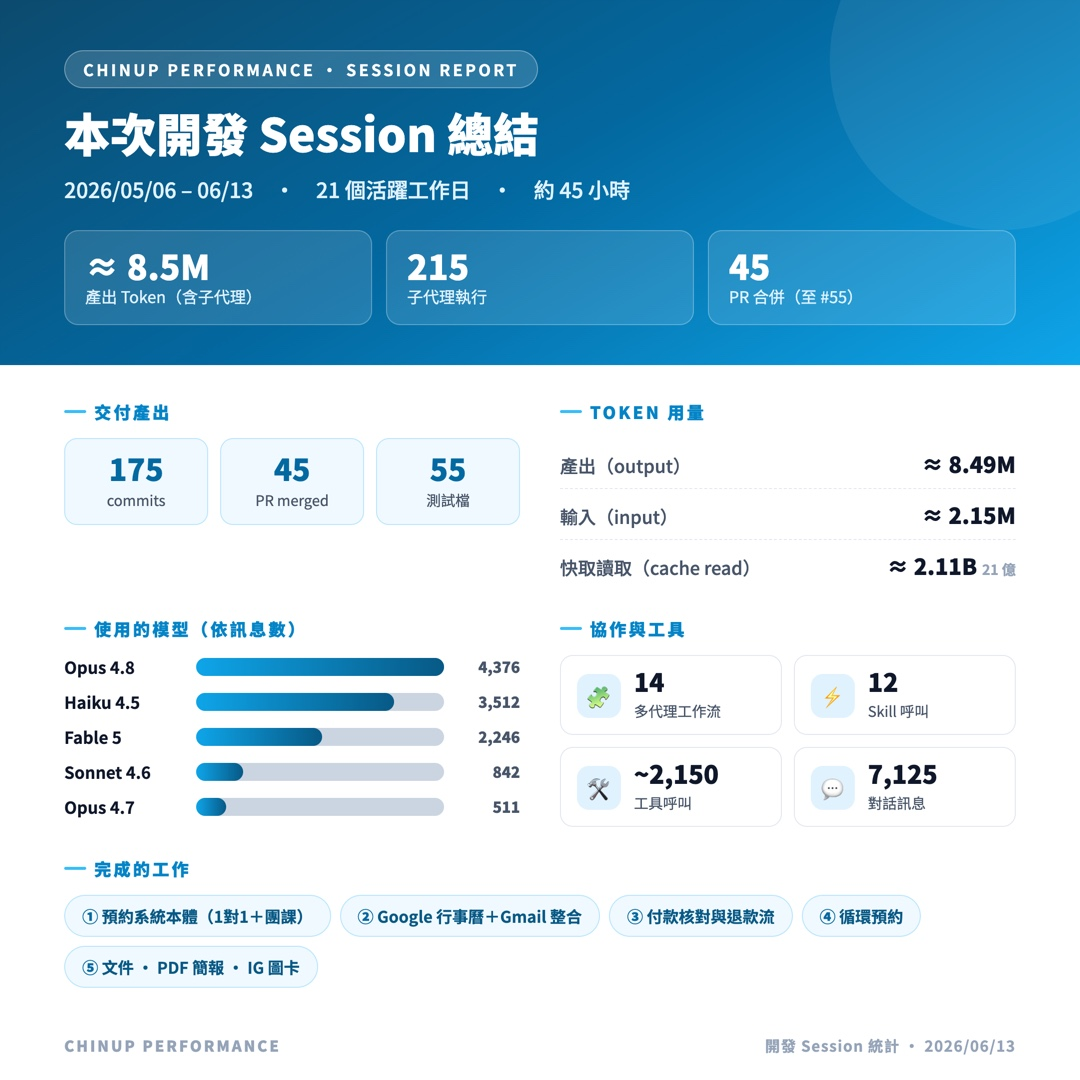
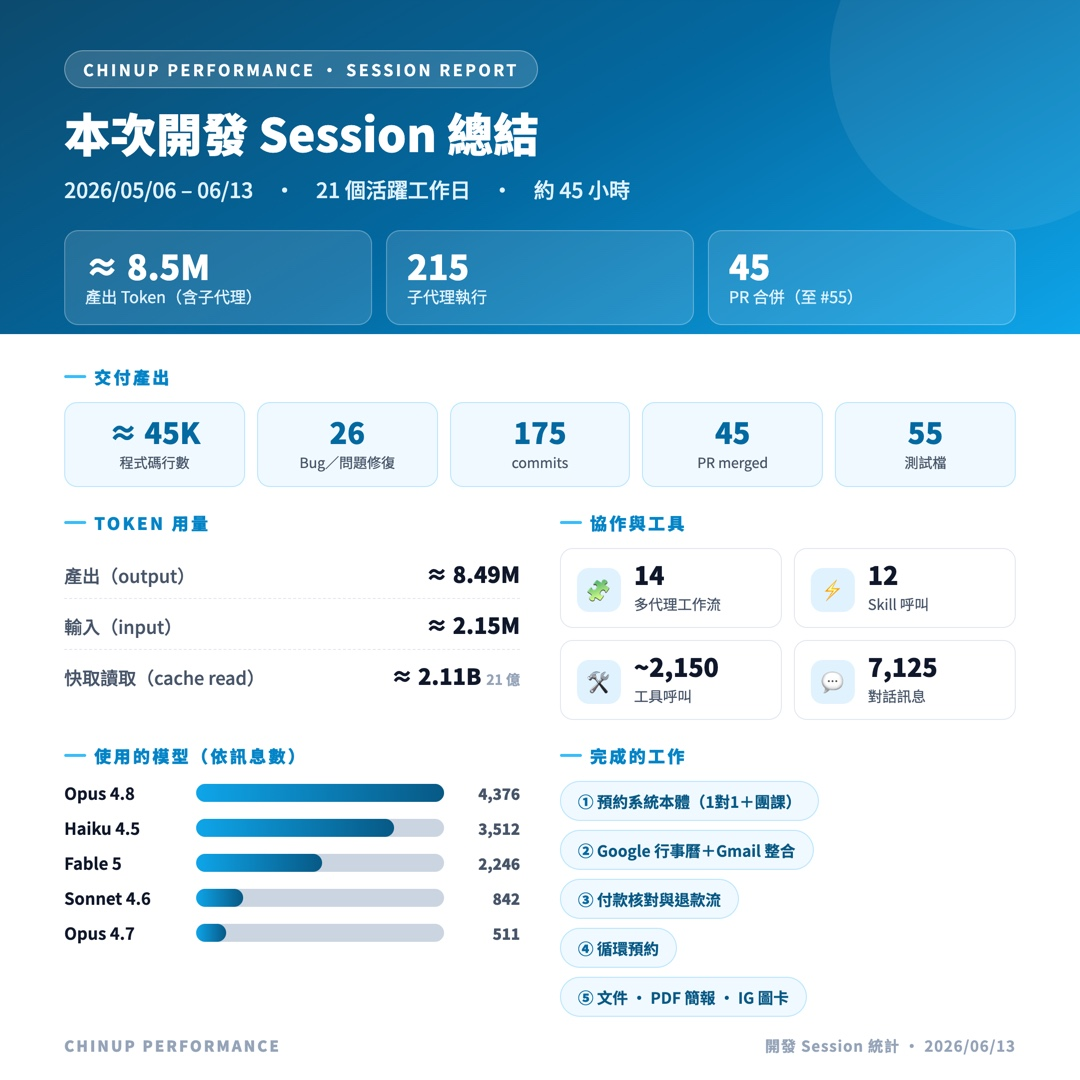
docs: Session 總結圖卡加入程式碼行數與 Bug 修復數
「交付產出」改為整列五格：≈45K 程式碼行數（git 期間累計新增）、
26 Bug／問題修復（fix 類提交）、175 commits、45 PR、55 測試檔；
版面重排為五格＋兩組 2 欄，完成的工作改直向膠囊。

diff --git a/docs/ig/session-summary.html b/docs/ig/session-summary.html
@@ -27,15 +27,16 @@ body{font-family:'Noto Sans TC','Inter',sans-serif;color:var(--ink);background:#
 .hero .hs span{font-size:16px;color:var(--sky-100)}
 
 /* body */
-.body{flex:1;padding:34px 64px 0;display:grid;grid-template-columns:1fr 1fr;grid-template-rows:auto auto;gap:26px 40px;align-content:start}
-.sec-t{font-size:17px;font-weight:900;letter-spacing:.14em;color:var(--sky-600);margin-bottom:14px;display:flex;align-items:center;gap:8px}
+.body{flex:1;padding:30px 64px 0;display:flex;flex-direction:column;gap:23px}
+.grid2{display:grid;grid-template-columns:1fr 1fr;gap:23px 40px}
+.sec-t{font-size:17px;font-weight:900;letter-spacing:.14em;color:var(--sky-600);margin-bottom:13px;display:flex;align-items:center;gap:8px}
 .sec-t::before{content:'';width:22px;height:3px;background:#38bdf8;border-radius:2px}
 
-/* 產出 tiles */
-.tiles{display:grid;grid-template-columns:1fr 1fr 1fr;gap:12px}
-.tile{background:var(--sky-50);border:1px solid var(--sky-200);border-radius:13px;padding:14px 12px;text-align:center}
-.tile b{display:block;font-size:30px;font-weight:900;color:var(--sky-700);line-height:1}
-.tile span{font-size:14.5px;color:var(--ink-soft);display:block;margin-top:6px}
+/* 產出 tiles（整列五格） */
+.tiles{display:grid;grid-template-columns:repeat(5,1fr);gap:12px}
+.tile{background:var(--sky-50);border:1px solid var(--sky-200);border-radius:13px;padding:14px 8px;text-align:center}
+.tile b{display:block;font-size:29px;font-weight:900;color:var(--sky-700);line-height:1}
+.tile span{font-size:14px;color:var(--ink-soft);display:block;margin-top:6px}
 
 /* token rows */
 .trow{display:flex;justify-content:space-between;align-items:baseline;padding:9px 0;border-bottom:1px dashed var(--line);font-size:18px}
@@ -59,9 +60,8 @@ body{font-family:'Noto Sans TC','Inter',sans-serif;color:var(--ink);background:#
 .chip span{font-size:14.5px;color:var(--ink-soft);display:block;margin-top:3px}
 
 /* 做了什麼 full-width */
-.didrow{grid-column:1 / -1}
-.did{display:flex;flex-wrap:wrap;gap:9px}
-.did .d{background:var(--sky-50);border:1px solid var(--sky-200);border-radius:999px;padding:8px 17px;font-size:16px;color:var(--sky-800,#075985);font-weight:600}
+.did{display:flex;flex-direction:column;align-items:flex-start;gap:9px}
+.did .d{background:var(--sky-50);border:1px solid var(--sky-200);border-radius:999px;padding:8px 17px;font-size:15.5px;color:var(--sky-800,#075985);font-weight:600}
 .did .d b{font-weight:900;color:var(--sky-700)}
 
 /* footer */
@@ -83,54 +83,60 @@ body{font-family:'Noto Sans TC','Inter',sans-serif;color:var(--ink);background:#
   </div>
 
   <div class="body">
-    <!-- 產出 -->
+    <!-- 產出（整列五格）-->
     <div>
       <div class="sec-t">交付產出</div>
       <div class="tiles">
+        <div class="tile"><b>≈ 45K</b><span>程式碼行數</span></div>
+        <div class="tile"><b>26</b><span>Bug／問題修復</span></div>
         <div class="tile"><b>175</b><span>commits</span></div>
         <div class="tile"><b>45</b><span>PR merged</span></div>
         <div class="tile"><b>55</b><span>測試檔</span></div>
       </div>
     </div>
 
-    <!-- Token -->
-    <div>
-      <div class="sec-t">TOKEN 用量</div>
-      <div class="trow"><span class="lab">產出（output）</span><span class="val">≈ 8.49M</span></div>
-      <div class="trow"><span class="lab">輸入（input）</span><span class="val">≈ 2.15M</span></div>
-      <div class="trow"><span class="lab">快取讀取（cache read）</span><span class="val">≈ 2.11B <small>21 億</small></span></div>
-    </div>
+    <div class="grid2">
+      <!-- Token -->
+      <div>
+        <div class="sec-t">TOKEN 用量</div>
+        <div class="trow"><span class="lab">產出（output）</span><span class="val">≈ 8.49M</span></div>
+        <div class="trow"><span class="lab">輸入（input）</span><span class="val">≈ 2.15M</span></div>
+        <div class="trow"><span class="lab">快取讀取（cache read）</span><span class="val">≈ 2.11B <small>21 億</small></span></div>
+      </div>
 
-    <!-- 模型 -->
-    <div>
-      <div class="sec-t">使用的模型（依訊息數）</div>
-      <div class="mbar"><span class="mn">Opus 4.8</span><span class="track"><span class="fill" style="width:100%"></span></span><span class="mc">4,376</span></div>
-      <div class="mbar"><span class="mn">Haiku 4.5</span><span class="track"><span class="fill" style="width:80%"></span></span><span class="mc">3,512</span></div>
-      <div class="mbar"><span class="mn">Fable 5</span><span class="track"><span class="fill" style="width:51%"></span></span><span class="mc">2,246</span></div>
-      <div class="mbar"><span class="mn">Sonnet 4.6</span><span class="track"><span class="fill" style="width:19%"></span></span><span class="mc">842</span></div>
-      <div class="mbar"><span class="mn">Opus 4.7</span><span class="track"><span class="fill" style="width:12%"></span></span><span class="mc">511</span></div>
-    </div>
-
-    <!-- 協作 -->
-    <div>
-      <div class="sec-t">協作與工具</div>
-      <div class="chips">
-        <div class="chip"><span class="ic">🧩</span><div><b>14</b><span>多代理工作流</span></div></div>
-        <div class="chip"><span class="ic">⚡</span><div><b>12</b><span>Skill 呼叫</span></div></div>
-        <div class="chip"><span class="ic">🛠</span><div><b>~2,150</b><span>工具呼叫</span></div></div>
-        <div class="chip"><span class="ic">💬</span><div><b>7,125</b><span>對話訊息</span></div></div>
+      <!-- 協作 -->
+      <div>
+        <div class="sec-t">協作與工具</div>
+        <div class="chips">
+          <div class="chip"><span class="ic">🧩</span><div><b>14</b><span>多代理工作流</span></div></div>
+          <div class="chip"><span class="ic">⚡</span><div><b>12</b><span>Skill 呼叫</span></div></div>
+          <div class="chip"><span class="ic">🛠</span><div><b>~2,150</b><span>工具呼叫</span></div></div>
+          <div class="chip"><span class="ic">💬</span><div><b>7,125</b><span>對話訊息</span></div></div>
+        </div>
       </div>
     </div>
 
-    <!-- 做了什麼 -->
-    <div class="didrow">
-      <div class="sec-t">完成的工作</div>
-      <div class="did">
-        <span class="d"><b>①</b> 預約系統本體（1對1＋團課）</span>
-        <span class="d"><b>②</b> Google 行事曆＋Gmail 整合</span>
-        <span class="d"><b>③</b> 付款核對與退款流</span>
-        <span class="d"><b>④</b> 循環預約</span>
-        <span class="d"><b>⑤</b> 文件 · PDF 簡報 · IG 圖卡</span>
+    <div class="grid2">
+      <!-- 模型 -->
+      <div>
+        <div class="sec-t">使用的模型（依訊息數）</div>
+        <div class="mbar"><span class="mn">Opus 4.8</span><span class="track"><span class="fill" style="width:100%"></span></span><span class="mc">4,376</span></div>
+        <div class="mbar"><span class="mn">Haiku 4.5</span><span class="track"><span class="fill" style="width:80%"></span></span><span class="mc">3,512</span></div>
+        <div class="mbar"><span class="mn">Fable 5</span><span class="track"><span class="fill" style="width:51%"></span></span><span class="mc">2,246</span></div>
+        <div class="mbar"><span class="mn">Sonnet 4.6</span><span class="track"><span class="fill" style="width:19%"></span></span><span class="mc">842</span></div>
+        <div class="mbar"><span class="mn">Opus 4.7</span><span class="track"><span class="fill" style="width:12%"></span></span><span class="mc">511</span></div>
+      </div>
+
+      <!-- 做了什麼 -->
+      <div>
+        <div class="sec-t">完成的工作</div>
+        <div class="did">
+          <span class="d"><b>①</b> 預約系統本體（1對1＋團課）</span>
+          <span class="d"><b>②</b> Google 行事曆＋Gmail 整合</span>
+          <span class="d"><b>③</b> 付款核對與退款流</span>
+          <span class="d"><b>④</b> 循環預約</span>
+          <span class="d"><b>⑤</b> 文件 · PDF 簡報 · IG 圖卡</span>
+        </div>
       </div>
     </div>
   </div>
